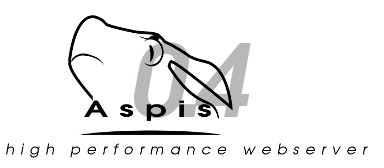
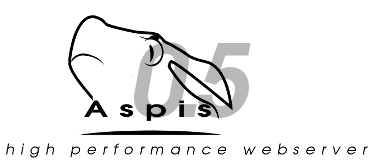
release candidate for v0.5

Changed region(s): [[0.5, 0.2381, 0.6562, 0.7143]]

diff --git a/trunk/doc/404.htm b/trunk/doc/404.htm
@@ -9,8 +9,8 @@
 
   <h3>Possible causes</h3>
   You typed the wrong URL.<br/>
-  The file non longer exist<br />
-  An internal error occurred<br /> <br />
+  The file no longer exists.<br />
+  An internal error occurred.<br /> <br />
   <hr />
   Powered by Aspis
   </body>

diff --git a/trunk/doc/index.html b/trunk/doc/index.html
@@ -4,7 +4,7 @@
 <head><title>Aspis test page</title></head>
 <body style="background-color: white;">
 <img src="banner.png" alt="banner">
-<h1>Aspis webserver version 0.4</h1>
+<h1>Aspis webserver version 0.5</h1>
 Aspis is up and running.
 <h3>Some cgi test</h3>
 <ul>

diff --git a/trunk/src/config.c b/trunk/src/config.c
@@ -95,9 +95,7 @@ static void c_add_alias(char *v1, char *v2, void *t);
 static void c_add_access(char *v1, char *v2, void *t);
 static void c_set_errorpage (char *v1, char *v2, void *t);
 
-#ifdef USE_AUTH
 void c_add_auth(char *v1, char *v2, void *t);
-#endif
 
 struct ccommand {
     const char *name;
@@ -178,9 +176,7 @@ struct ccommand clist[] = {
     {"CGIRlimitData", S2A, c_set_int, &cgi_rlimit_data},
     {"CGINice", S2A, c_set_int, &cgi_nice},
 #endif
-#ifdef USE_AUTH
     { "Auth", S2A, c_add_auth, NULL },
-#endif
     {"CGIEnv", S2A, c_add_cgi_env, NULL},
     {"RedirectStatus", S1A, c_set_string, &redirect_status},
     {"PhpHandler", S1A, c_set_string, &php_handler},
@@ -378,33 +374,40 @@ static void c_add_alias(char *v1, char *v2, void *t)
 
 static void c_add_access(char *v1, char *v2, void *t)
 {
-#ifdef ACCESS_CONTROL
+#ifdef USE_AC
     access_add(v1, *(int *) t);
 #else
     log_error_time();
     fprintf(stderr,
             "This version of Aspis doesn't support access controls.\n"
-            "Please recompile with --enable-access-control.\n");
+            "Please recompile with --enable-ac.\n");
 #endif                          /* ACCESS_CONTROL */
 }
 
-#ifdef USE_AUTH
 void c_add_auth(char *arg1, char *arg2, void *t)
 {
-	/* format is Auth PATH [TYPE:]FILE */
-	char *file = strchr(arg2, ':');
-	if (file) {
-		*file = '\0';
-		file++;
-		if(file[0] == '\0') file = NULL;
-	}
-	else {
-		file = arg2;
-		arg2 = "Basic";
-	}
-	auth_add(arg1, file, arg2);
-}
+#ifdef USE_AUTH
+    /* format is Auth PATH [TYPE:]FILE */
+    char *file = strchr(arg2, ':');
+    if (file) {
+        *file = '\0';
+        file++;
+        if(file[0] == '\0') file = NULL;
+        }
+    else {
+        file = arg2;
+        arg2 = "Basic";
+    }
+    auth_add(arg1, file, arg2);
+#else
+    log_error_time();
+    fprintf(stderr,
+            "This version of Aspis doesn't support basic authentication.\n"
+            "Please recompile with --enable-auth.\n"); 
 #endif
+
+}
+
 
 /* set error page path, I use just a vector, because vectors are fast */
 static void c_set_errorpage (char *v1, char *v2, void *t)
@@ -617,7 +620,7 @@ void read_config_files(void)
     if (!config_file_name) {
         config_file_name = DEFAULT_CONFIG_FILE;
     }
-#ifdef ACCESS_CONTROL
+#ifdef USE_AC
     access_init();
 #endif                          /* ACCESS_CONTROL */
 

diff --git a/trunk/src/cgi.c b/trunk/src/cgi.c
@@ -257,7 +257,16 @@ static int complete_env(request * req)
     my_add_cgi_env(req, "SERVER_ADDR", req->local_ip_addr);
     my_add_cgi_env(req, "SERVER_PROTOCOL",
                    http_ver_string(req->http_version));
-    my_add_cgi_env(req, "REQUEST_URI", req->request_uri);
+    if (req->query_string) {
+      char cpt[1025];
+      unsigned int lru = strlen(req->request_uri);
+      memcpy(cpt, req->request_uri, lru);
+      memcpy(cpt + lru, "?", 1);
+      memcpy(cpt + lru + 1, req->query_string, strlen(req->query_string) + 1);
+      my_add_cgi_env(req, "REQUEST_URI", cpt);
+      my_add_cgi_env(req, "QUERY_STRING", req->query_string);
+    } else
+      my_add_cgi_env(req, "REQUEST_URI", req->request_uri);
 
     if (req->path_info)
         my_add_cgi_env(req, "PATH_INFO", req->path_info);
@@ -271,30 +280,28 @@ static int complete_env(request * req)
 
     my_add_cgi_env(req, "SCRIPT_NAME", req->script_name);
 
-    if (req->query_string)
-        my_add_cgi_env(req, "QUERY_STRING", req->query_string);
     my_add_cgi_env(req, "REMOTE_ADDR", req->remote_ip_addr);
     my_add_cgi_env(req, "REMOTE_PORT", simple_itoa(req->remote_port));
     
     /* PHP */
     if (redirect_status)
-		my_add_cgi_env(req, "REDIRECT_STATUS", redirect_status);
-	
-	if (req->cgi_type == PHP) {
-		char cpt[1025];
-		unsigned int lpn = strlen(req->pathname);
-		if (req->pathname[0] == '/') {
-			my_add_cgi_env(req, "SCRIPT_FILENAME", req->pathname);
-		} else {
-			memcpy(cpt, server_root, server_root_len);
-			/*if (cpt[server_root_len - 1] != '/') {
-				cpt[server_root_len] = '/';
-				server_root_len++;
-			}*/
-			memcpy(cpt + server_root_len, req->pathname ,lpn + 1);
-			my_add_cgi_env(req, "SCRIPT_FILENAME", cpt);
-		}
-	}
+      my_add_cgi_env(req, "REDIRECT_STATUS", redirect_status);
+
+    if (req->cgi_type == PHP) {
+      char cpt[1025];
+      unsigned int lpn = strlen(req->pathname);
+      if (req->pathname[0] == '/') {
+	my_add_cgi_env(req, "SCRIPT_FILENAME", req->pathname);
+      } else {
+	memcpy(cpt, server_root, server_root_len);
+	/*if (cpt[server_root_len - 1] != '/') {
+	  cpt[server_root_len] = '/';
+	  server_root_len++;
+	}*/
+	memcpy(cpt + server_root_len, req->pathname ,lpn + 1);
+	my_add_cgi_env(req, "SCRIPT_FILENAME", cpt);
+      }
+    }
 
     if (req->method == M_POST) {
         if (req->content_type) {

diff --git a/trunk/src/get.c b/trunk/src/get.c
@@ -119,13 +119,6 @@ int init_get(request * req)
         return 0;
     }
 
-#ifdef ACCESS_CONTROL
-    if (!access_allow(req->pathname)) {
-      send_r_forbidden(req);
-      return 0;
-    }
-#endif
-
     fstat(data_fd, &statbuf);
 
     if (S_ISDIR(statbuf.st_mode)) { /* directory */
@@ -634,18 +627,22 @@ static int index_directory(request * req, char *dest_filename)
     }
 
     bytes += fprintf(fdstream,
-                     "<html><head>\n<title>Index of %s</title>\n</head>\n\n",
+                     "<html><head>\n<title>%s (index)</title>\n</head>\n\n",
                      req->request_uri);
-    bytes += fprintf(fdstream, "<body>\n\n<h2>Index of %s</h2>\n\n<pre>",
+    bytes += fprintf(fdstream, "<body>\n\n<h2>%s (index)</h2>\n\n<pre>",
                      req->request_uri);
     if ((req->request_uri + 1) != '\0')
-		bytes += fprintf(fdstream, " <a href=\"../\">Parent directory</a> [DIR]\n\n");
+#ifdef USE_UNICODE
+        bytes += fprintf(fdstream, " <a href=\"../\">&#x21D1; Parent</a> [DIR]\n\n");
+#else
+        bytes += fprintf(fdstream, " <a href=\"../\">Parent</a> [DIR]\n\n");
+#endif
 
     while ((dirbuf = readdir(request_dir))) {
         if (*(dirbuf->d_name) == '.') {
 			/* it is the current directory or the parent directory
 			 * or a hidden file
-			 */				
+			 */
             continue;
 		}
 
@@ -657,7 +654,7 @@ static int index_directory(request * req, char *dest_filename)
 								escname, escname);
 			} else
 #endif
-				bytes += fprintf(fdstream, " \x9b <a href=\"%s\">%s</a>\n", 
+				bytes += fprintf(fdstream, " <a href=\"%s\">%s</a>\n", 
 								escname, escname);
             free(escname);
             escname = NULL;

diff --git a/trunk/src/defines.h b/trunk/src/defines.h
@@ -71,8 +71,8 @@
 #define CGI_MIME_TYPE                           "application/x-httpd-cgi"
 #define PHP_MIME_TYPE                           "application/x-httpd-php"
 
-#define DEFAULT_PHP_HANDLER						"/usr/bin/php-cgi"
-#define DEFAULT_DIR_INDEX						"index.html"
+#define DEFAULT_PHP_HANDLER			"/usr/bin/php-cgi"
+#define DEFAULT_DIR_INDEX			"index.html"
 
 /***** CHANGE ANYTHING BELOW THIS LINE AT YOUR OWN PERIL *****/
 /***** You will probably introduce buffer overruns unless you know
@@ -88,7 +88,7 @@
 #endif
 
 #ifndef SERVER_VERSION
-#define SERVER_VERSION 				"Aspis v. 0.4"
+#define SERVER_VERSION 				"Aspis v0.5"
 #endif
 
 #define CGI_VERSION				"CGI/1.1"

diff --git a/trunk/src/request.c b/trunk/src/request.c
@@ -854,11 +854,20 @@ int process_header_end(request * req)
         SQUASH_KA(req);
         return 0;               /* failure, close down */
     }
+
 #ifdef USE_AUTH
-	if (!auth_authorize(req)) {
-		return 0;
-	}
+    if (!auth_authorize(req)) {
+      return 0;
+    }
 #endif
+
+#ifdef USE_AC
+    if (!access_allow(req->pathname)) {
+      send_r_forbidden(req);
+      return 0;
+    }
+#endif
+
     if (req->method == M_POST) {
         req->post_data_fd = create_temporary_file(1, NULL, 0);
         if (req->post_data_fd == 0) {

diff --git a/trunk/src/access.h b/trunk/src/access.h
@@ -26,8 +26,10 @@
 
 enum access_type { ACCESS_DENY, ACCESS_ALLOW };
 
+#ifdef USE_AC
 void access_init(void);
 void access_add(const char *pattern, enum access_type);
 enum access_type access_allow(const char *file);
+#endif
 
 #endif                          /* _ACCESS_H */
